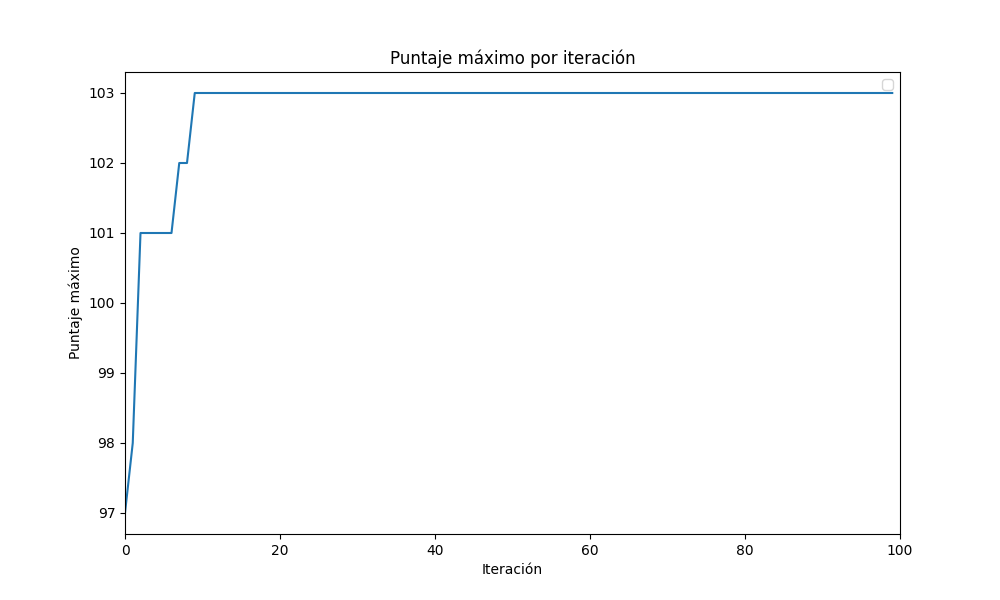
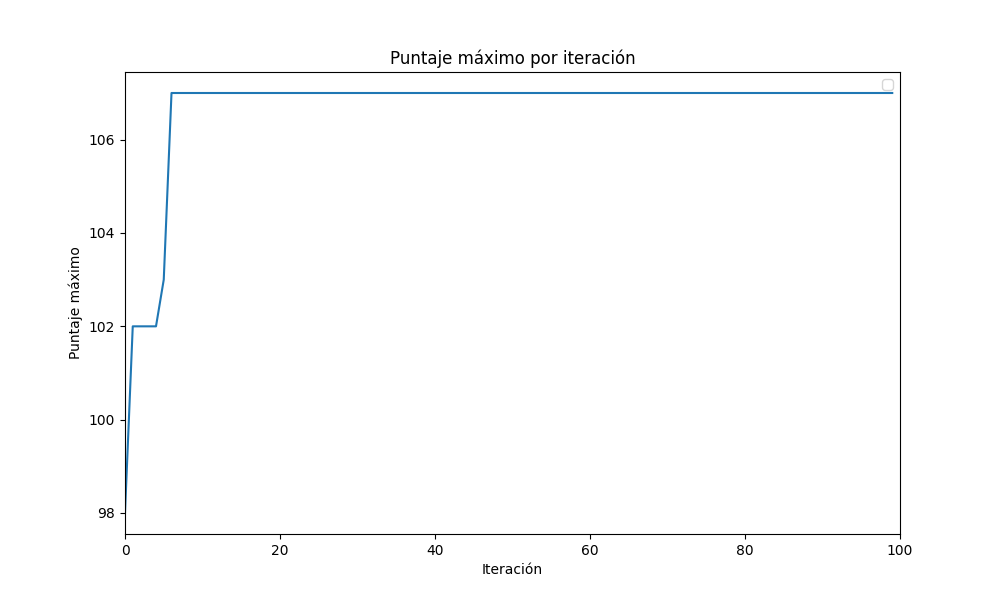
changed some graphs

diff --git a/gen_algv2.py b/gen_algv2.py
@@ -5,8 +5,8 @@ from typing import List, Dict
 import matplotlib.pyplot as plt
 
 MAX_ITERATIONS = 10
-POP_SIZE = 1000
-MUTATION_PROB = 0.15
+POP_SIZE = 10
+MUTATION_PROB = 0.99
 
 JUGADORES = ['Messi', 'Dibu Martinez', 'Perrito Barrios', 'Equi Fernandez', 'Paulo Diaz']
 POSICIONES = ['Arquero', 'Delantero', 'Marcador central', 'Mediocampista central', 'Volante']
